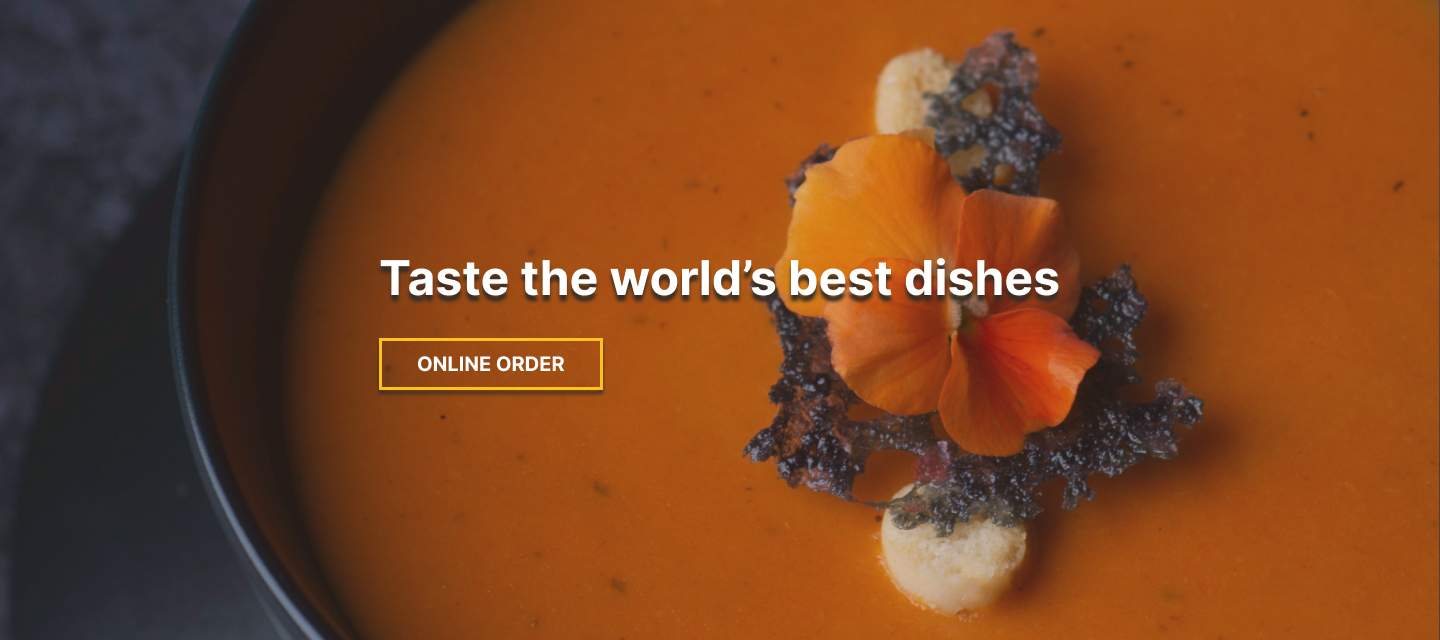
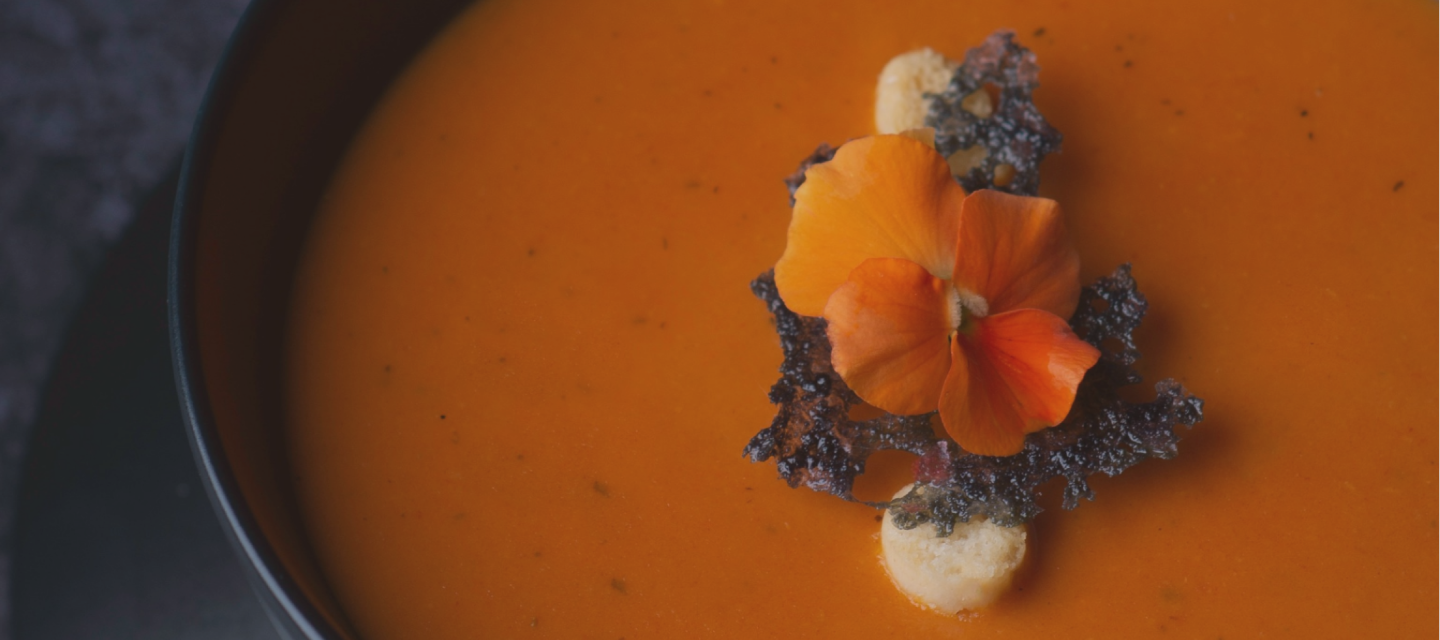
Sections

Changed region(s): [[0.25, 0.4062, 0.75, 0.4688], [0.25, 0.5312, 0.4375, 0.625]]

diff --git a/index.html b/index.html
@@ -14,7 +14,7 @@
     <div class="container">
         <!-- Header -->
         <header>
-            <a class="header_logo1">
+            <a class="header_logo1" href="index.html">
                 <img src="images/logo1.svg" alt="logo1">
             </a>
             <nav>
@@ -34,47 +34,40 @@
                 </ul>
             </nav>
             <i class="fa-solid fa-bag-shopping bag"></i>
-
-
-
-
-
-
-
-
-
-
-
         </header>
 
+        <!-- Section1 -->
+        <section class="section1">
+            <div class="section1_img">
+                <img class="img1" src="images/img1.png" alt="img1">
+            </div>
+            <div class="text_button">
+                <h1 class="section1_title">Taste the world’s best dishes</h1>
+                <button class="section1_button">ONLINE ORDER</button>
+            </div>
+        </section>
 
+        <!-- Section2 -->
+        <section class="section2">
+            <figure class="section2_figure">
+                <img class="section2_img" src="images/img2.png" alt="img2">
+                <figcaption class="section2_title"> <img class="section2_icon" src="images/sectionicon1.svg"> MOUTH WHATERING FOOD
+                </figcaption>
+            </figure>
 
+            <figure class="section2_figure">
+                <img class="section2_img" src="images/img3.png" alt="img3">
+                <figcaption class="section2_title"> <img class="section2_icon" src="images/sectionicon2.svg"> DEDICATED & ATTENDING STAFF
+                </figcaption>
+            </figure>
 
-
-
-
-
-
-
-
-
-
-
-
-
-
-
-
-
-
-
-
-
-
-
-
-
-
+            <figure class="section2_figure">
+                <img class="section2_img" src="images/img4.png" alt="img4">
+                <figcaption class="section2_title">
+                    <img class="section2_icon" src="images/sectionicon3.svg"> RELAXING ATMOSPHERE
+                </figcaption>
+            </figure>
+        </section>
 
 
 

diff --git a/css/style.css b/css/style.css
@@ -3,6 +3,7 @@
     width: 100%;
     margin: auto;
     /* padding-top: 139px; amas minus 10px tu chamoiwia  */
+    padding-top: 136px;
 }
 
 /* Header */
@@ -23,7 +24,6 @@ header {
 .header_logo1 {
     width: 72px;
     height: 72px;
-
 }
 
 .header_ul {
@@ -37,7 +37,6 @@ header {
     font-style: normal;
     font-weight: 400;
     line-height: 32px;
-    /* 133.333% */
 }
 
 .active {
@@ -48,3 +47,89 @@ header {
     font-size: 40px;
     color: #FCC21B;
 }
+
+/* Section1 */
+.section1 {
+    position: relative;
+}
+
+.section1_img {
+    height: 640px;
+}
+
+.img1 {
+    width: 100%;
+    height: 100%;
+}
+
+.text_button {
+    position: absolute;
+    top: 50%;
+    left: 50%;
+    transform: translate(-50%, -50%);
+}
+
+.section1_title {
+    color: #FFF;
+    text-shadow: 0px 6px 4px #372D23;
+    font-size: 48px;
+    font-style: normal;
+    font-weight: 700;
+    line-height: 56px;
+    margin-bottom: 32px;
+}
+
+.section1_button {
+    color: #FFF;
+    font-size: 20px;
+    font-style: normal;
+    font-weight: 700;
+    line-height: 28px;
+    padding: 12px 38px;
+    border: 3px solid #FCC21B;
+    box-shadow: 0px 4px 4px 0px #372D23;
+}
+
+/* damrcha hoveri da gilakis transparrenti  */
+
+/* Section2 */
+.section2 {
+    padding: 80px;
+    display: flex;
+    column-gap: 40px;
+}
+
+.section2_figure {
+    position: relative;
+    height: 320px;
+}
+
+.section2_img {
+    width: 100%;
+    height: 100%;
+}
+
+
+.section2_title {
+    color: #FFF;
+    font-size: 16px;
+    font-style: normal;
+    font-weight: 700;
+    line-height: 24px;
+    width: 100%;
+    height: 88px;
+    position: absolute;
+    bottom: 0;
+    background: rgba(55, 45, 35, 0.80);
+    display: flex;
+    justify-content: center;
+    align-items: center;
+    column-gap: 16px;
+}
+
+.section2_icon {
+    width: 32px;
+    height: 32px;
+}
+
+/*  */
